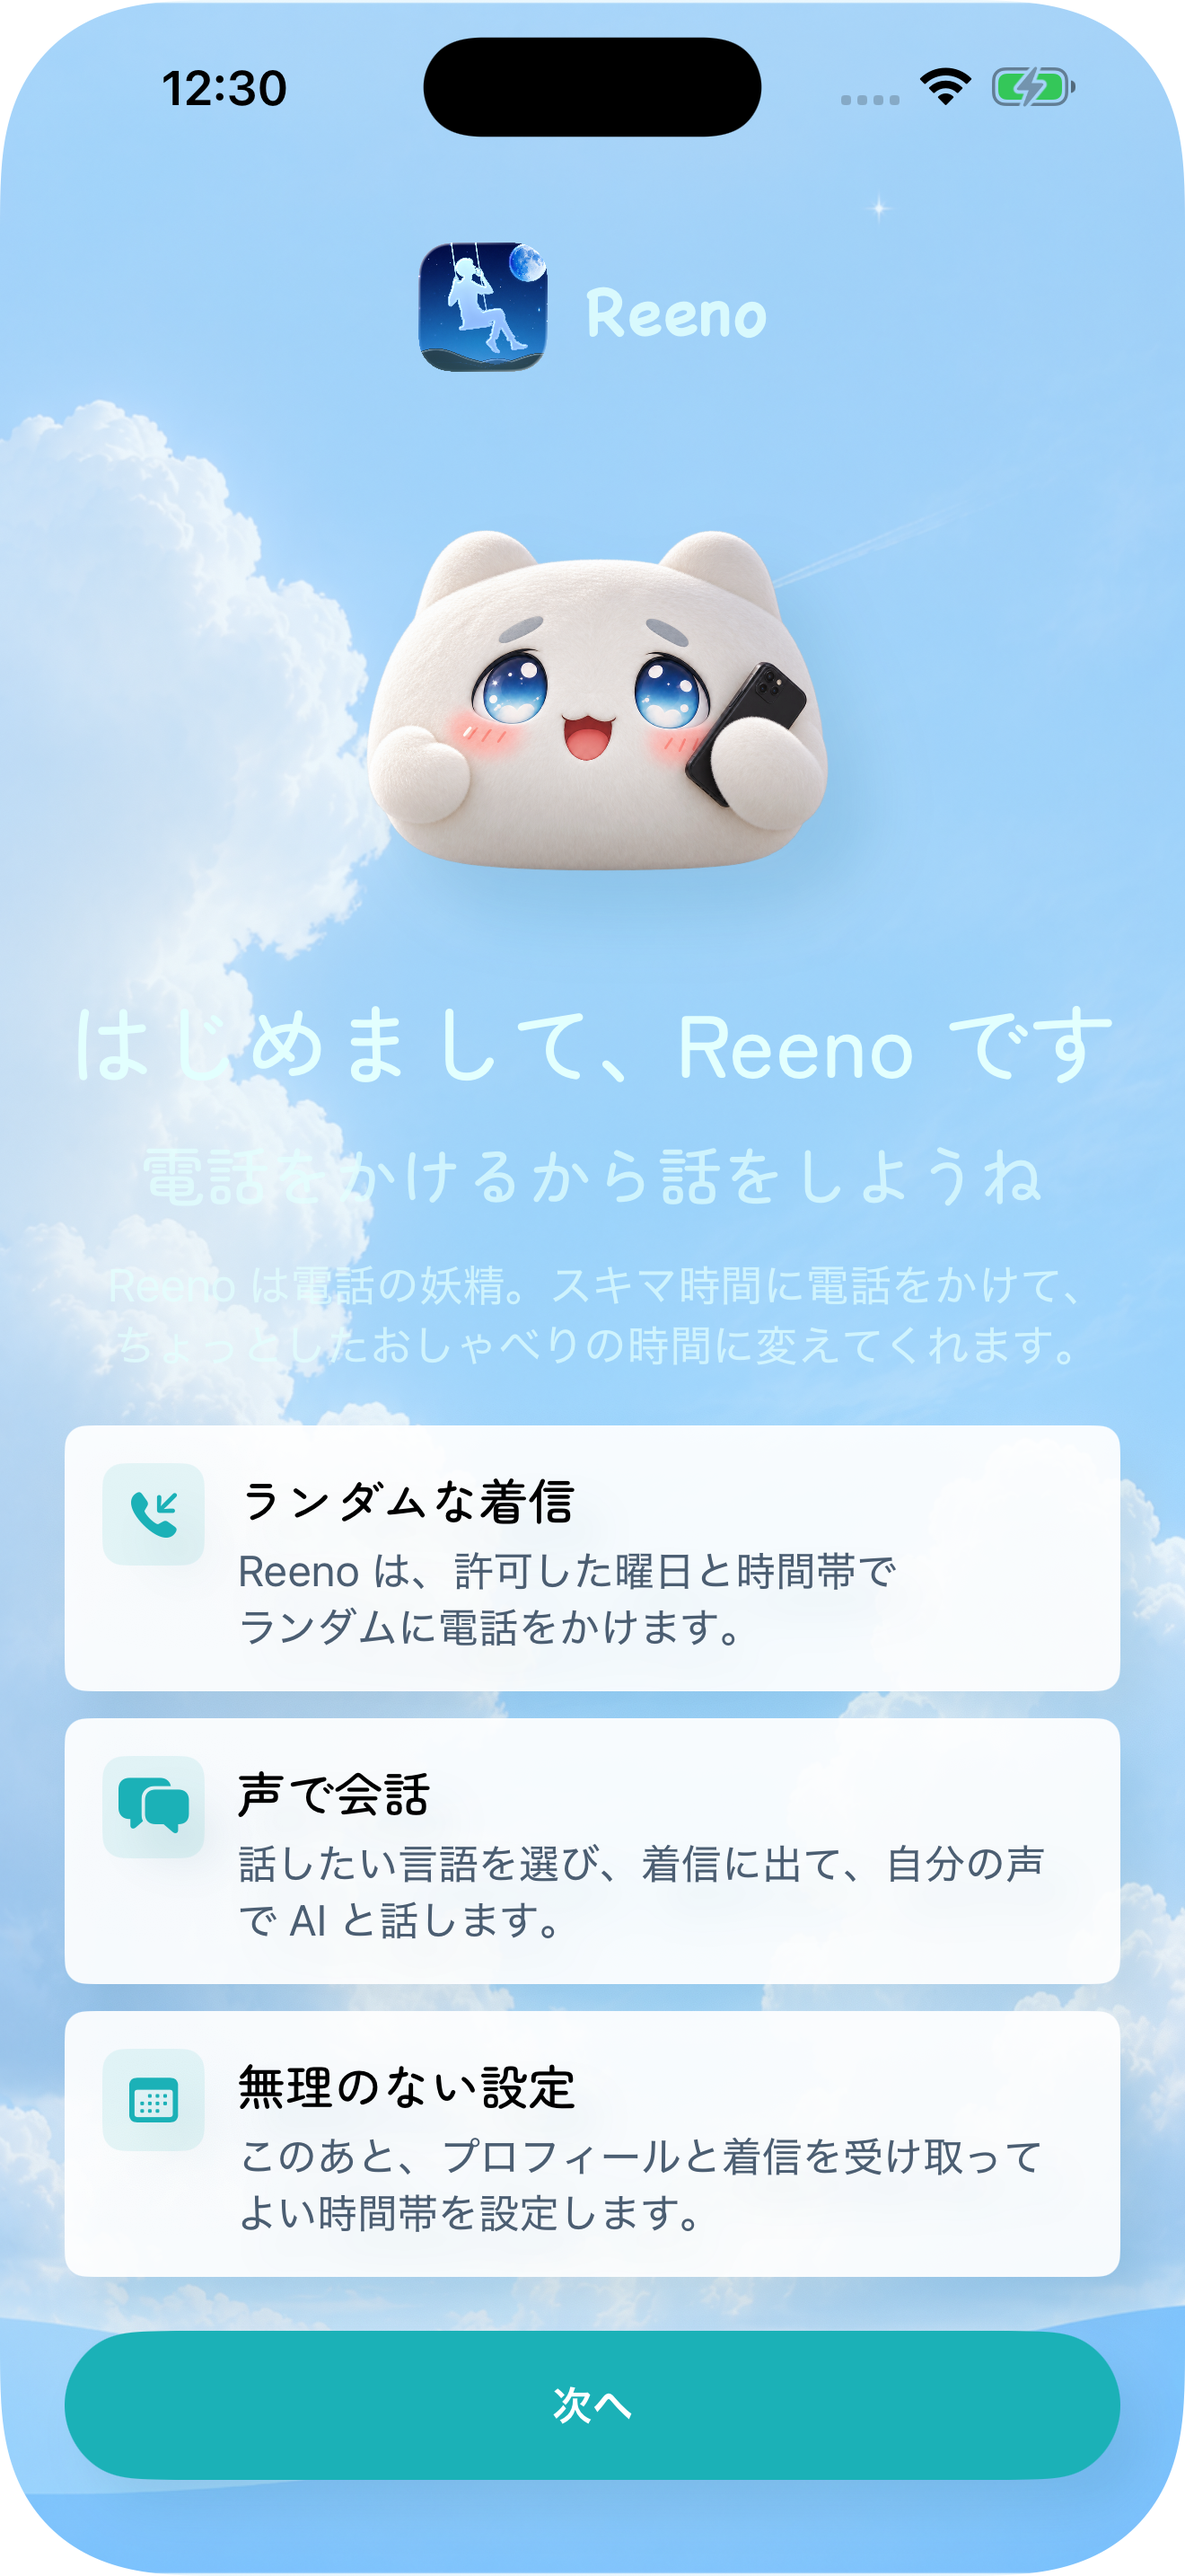
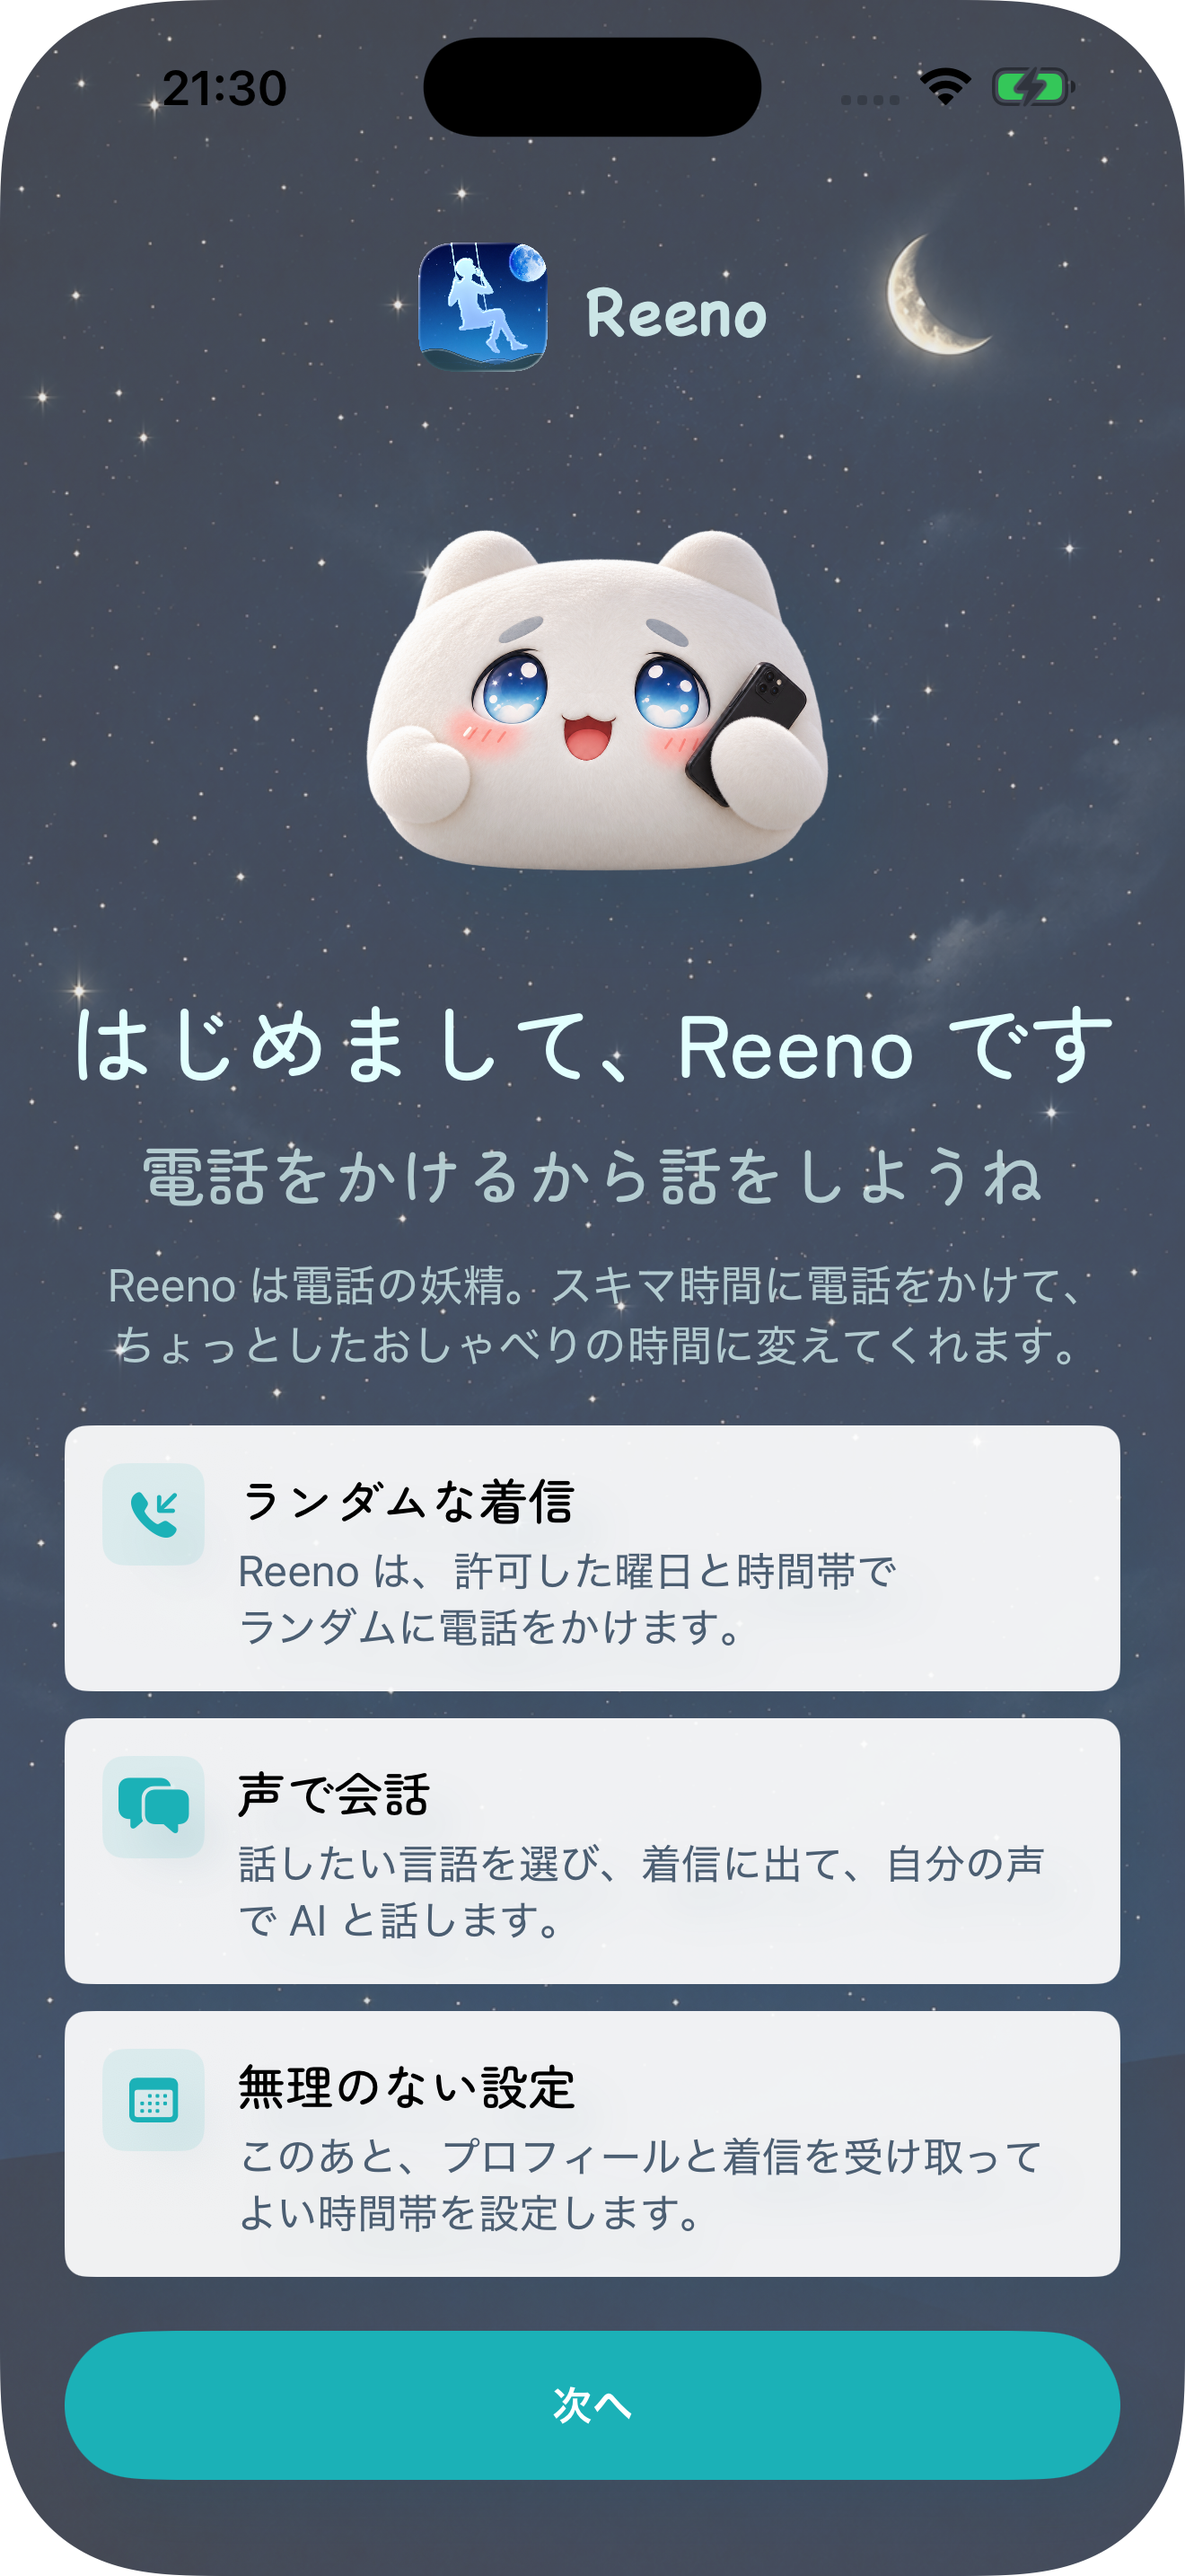
Unify Reeno guide screenshots with night backgrounds

diff --git a/Reeno/app/jp/guide.html b/Reeno/app/jp/guide.html
@@ -121,7 +121,7 @@
       <nav class="contents" aria-label="利用ガイドの目次">
         <a href="#setup">はじめての設定</a><a href="#home">ホームの使い方</a><a href="#history">履歴・ノート</a><a href="#calls">今すぐ電話・通話設定</a><a href="#timing">着信時刻の決まり方</a><a href="#characters">ReenoとMenta</a>
       </nav>
-      <p class="note">画像の赤茶色の番号と、下の操作説明が対応しています。画像はタップで拡大できます。画面は日本語表示のサンプルです。登録済みの設定や通話状況により、表示される案内は変わります。</p>
+      <p class="note">画像の赤茶色の番号と、下の操作説明が対応しています。画像はタップで拡大できます。画面は日本語表示のサンプルで、夜の背景に統一しています。実際の背景は時間帯や画面により異なります。登録済みの設定や通話状況により、表示される案内は変わります。</p>
     </section>
     <section id="setup" aria-labelledby="setup-title">
       <h2 id="setup-title">01 はじめて開いてから、ホームまで。</h2>
@@ -238,17 +238,17 @@
         </article>
         <article class="screen-card">
           <h3>「今すぐ電話をもらう」を押す</h3>
-          <figure><a class="phone" href="images/guide/screenshots/call-settings.png" aria-label="「今すぐ電話をもらう」を押すの画像を拡大"><img loading="lazy" decoding="async" src="images/guide/screenshots/call-settings.png" width="1320" height="2868" alt="着信設定の着信オン・今すぐ電話をもらうボタン・一時停止。"><span class="hotspot" aria-hidden="true" style="left:8%;top:24.5%;width:84%;height:5%"><b>1</b></span><span class="hotspot" aria-hidden="true" style="left:4%;top:39%;width:92%;height:22.5%"><b>2</b></span></a><figcaption>画像をタップすると拡大できます。</figcaption></figure>
+          <figure><a class="phone" href="images/guide/screenshots/call-settings.png" aria-label="「今すぐ電話をもらう」を押すの画像を拡大"><img loading="lazy" decoding="async" src="images/guide/screenshots/call-settings.png" width="1320" height="2868" alt="着信設定の着信オン・今すぐ電話をもらうボタン・一時停止。"><span class="hotspot" aria-hidden="true" style="left:8%;top:24.5%;width:84%;height:5%"><b>1</b></span><span class="hotspot" aria-hidden="true" style="left:4%;top:39%;width:92%;height:11%"><b>2</b></span></a><figcaption>画像をタップすると拡大できます。</figcaption></figure>
           <ol class="actions"><li><strong>「今すぐ電話をもらう」</strong>が表示されていたら、押して着信をリクエストできます。受け付けられると「数分以内」の案内に変わります。</li><li>忙しいときは<strong>「一時停止」</strong>を使います。着信そのものを止めたいときは、上の「着信を受け取る」をオフにします。</li></ol><p class="note">変更は自動保存されます。保存中・エラーの表示がある場合は、画面の案内を確認してください。</p>
         </article>
         <article class="screen-card">
           <h3>曜日ごとに、出られる時間を決める</h3>
-          <figure><a class="phone" href="images/guide/screenshots/schedule-windows.png" aria-label="曜日ごとに、出られる時間を決めるの画像を拡大"><img loading="lazy" decoding="async" src="images/guide/screenshots/schedule-windows.png" width="1320" height="2868" alt="着信設定の曜日別の時間帯一覧と追加ボタン。"><span class="hotspot" aria-hidden="true" style="left:84%;top:43%;width:8%;height:3%"><b>1</b></span><span class="hotspot" aria-hidden="true" style="left:8%;top:47%;width:84%;height:5%"><b>2</b></span></a><figcaption>着信設定を下にスクロールした状態。</figcaption></figure>
+          <figure><a class="phone" href="images/guide/screenshots/schedule-windows.png" aria-label="曜日ごとに、出られる時間を決めるの画像を拡大"><img loading="lazy" decoding="async" src="images/guide/screenshots/schedule-windows.png" width="1320" height="2868" alt="着信設定の曜日別の時間帯一覧と追加ボタン。"><span class="hotspot" aria-hidden="true" style="left:84%;top:31.3%;width:8%;height:3%"><b>1</b></span><span class="hotspot" aria-hidden="true" style="left:8%;top:35.3%;width:84%;height:5%"><b>2</b></span></a><figcaption>着信設定を下にスクロールした状態。</figcaption></figure>
           <ol class="actions"><li>曜日の<strong>「＋」</strong>から時間帯を追加します。時間帯がない曜日には通常の着信は入りません。</li><li>登録済みの時間帯を押すと編集でき、ごみ箱で削除できます。</li></ol><p>平日は19〜21時、休日は昼と夕方など、生活に合わせて設定できます。1日に複数の時間帯も登録できます。</p>
         </article>
         <article class="screen-card">
           <h3>開始・終了時刻を指定する</h3>
-          <figure><a class="phone" href="images/guide/screenshots/schedule-editor.png" aria-label="開始・終了時刻を指定するの画像を拡大"><img loading="lazy" decoding="async" src="images/guide/screenshots/schedule-editor.png" width="1320" height="2868" alt="曜日の時間帯追加欄。開始と終了の時刻、追加ボタン。"><span class="hotspot" aria-hidden="true" style="left:8%;top:65%;width:84%;height:4.5%"><b>1</b></span><span class="hotspot" aria-hidden="true" style="left:8%;top:70%;width:84%;height:4.5%"><b>2</b></span></a><figcaption>画像をタップすると拡大できます。</figcaption></figure>
+          <figure><a class="phone" href="images/guide/screenshots/schedule-editor.png" aria-label="開始・終了時刻を指定するの画像を拡大"><img loading="lazy" decoding="async" src="images/guide/screenshots/schedule-editor.png" width="1320" height="2868" alt="曜日の時間帯追加欄。開始と終了の時刻、追加ボタン。"><span class="hotspot" aria-hidden="true" style="left:8%;top:53.3%;width:84%;height:4.5%"><b>1</b></span><span class="hotspot" aria-hidden="true" style="left:8%;top:58.3%;width:84%;height:4.5%"><b>2</b></span></a><figcaption>画像をタップすると拡大できます。</figcaption></figure>
           <ol class="actions"><li>開始と終了の時刻を選びます。</li><li><strong>「追加する」</strong>（既存の時間帯の編集では「保存する」）を押して確定します。</li></ol><p class="note">日付をまたぐ時間帯は分けて登録してください。例えば月曜22〜24時と火曜0〜1時、という形です。終了時刻の「0:00」はその日の「24:00」として扱います。</p>
         </article>
       </div>
